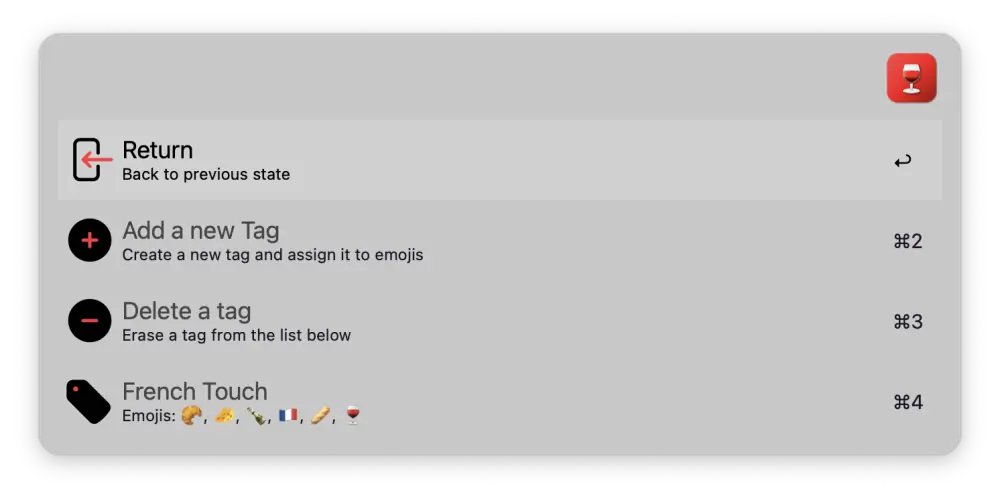
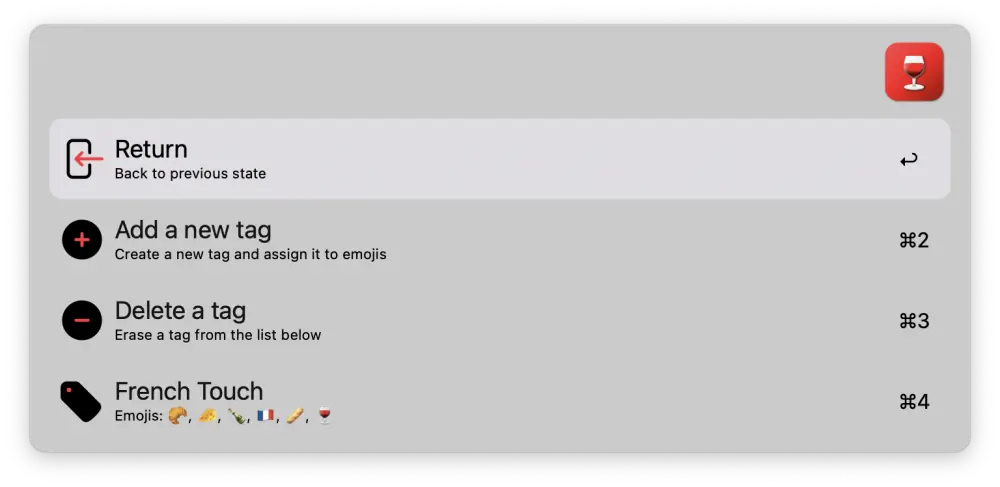
fix typo

diff --git a/src/harvest.py b/src/harvest.py
@@ -71,7 +71,7 @@ if api_data:
         if level == 1:
             for obj in [
                 {
-                    'title': 'Add a new Tag',
+                    'title': 'Add a new tag',
                     'subtitle': 'Create a new tag and assign it to emojis',
                     'arg': f'_tags;new;;;{"ǀ".join(lib)}',
                     'icon': {
@@ -93,7 +93,7 @@ if api_data:
                     list_emojis = ', '.join(obj['emojis'])
                     list_emojis = '❌ No Emojis' if list_emojis == '' else f'Emojis: {list_emojis}'
                     items.append({
-                        'title': obj.get('title', 'No Title'),
+                        'title': obj['title'] if obj['title'] is not '' else 'No Title',
                         'subtitle': list_emojis,
                         'arg': f'_rerun;modify;2;;{obj["id"]}',
                         'icon': {
@@ -106,7 +106,7 @@ if api_data:
                     list_emojis = ', '.join(obj.get('emojis'))
                     list_emojis = '❌ No Emojis' if list_emojis == '' else f'Emojis: {list_emojis}'
                     items.append({
-                        'title': obj.get('title', 'No Title'),
+                        'title': obj['title'] if obj['title'] is not '' else 'No Title',
                         'subtitle': list_emojis,
                         'arg': f'_tags;delete;;{obj["id"]};{"ǀ".join(lib)}',
                         'icon': {

diff --git a/src/tags.py b/src/tags.py
@@ -17,7 +17,7 @@ if action == 'new':
     print(os.environ['split5'], end='')
     data.append({
         'id': secrets.token_hex(6),
-        'title': sys.argv[1],
+        'title': sys.argv[1].strip(),
         'emojis':[]
     })
 elif action == 'delete':
@@ -30,7 +30,7 @@ elif action == 'modify':
     print(os.environ['split6'], end='')
     for obj in data:
         if obj['id'] == tagID:
-            obj['title'] = sys.argv[1]
+            obj['title'] = sys.argv[1].strip()
             break
 elif action == 'emoji':
     print(os.environ['split6'], end='')
